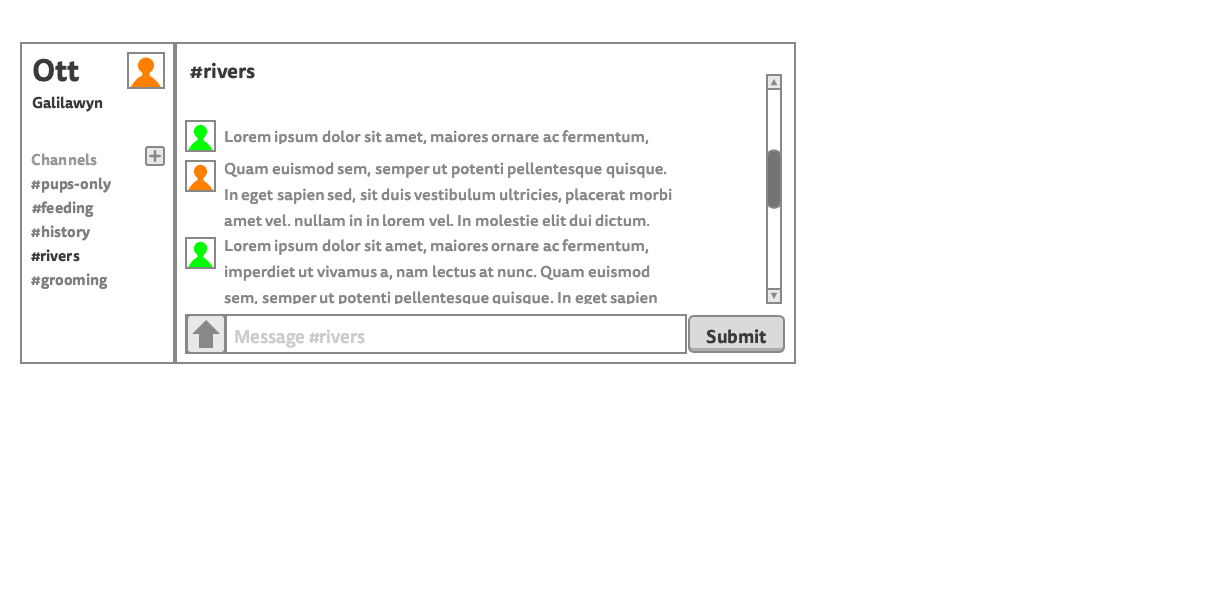
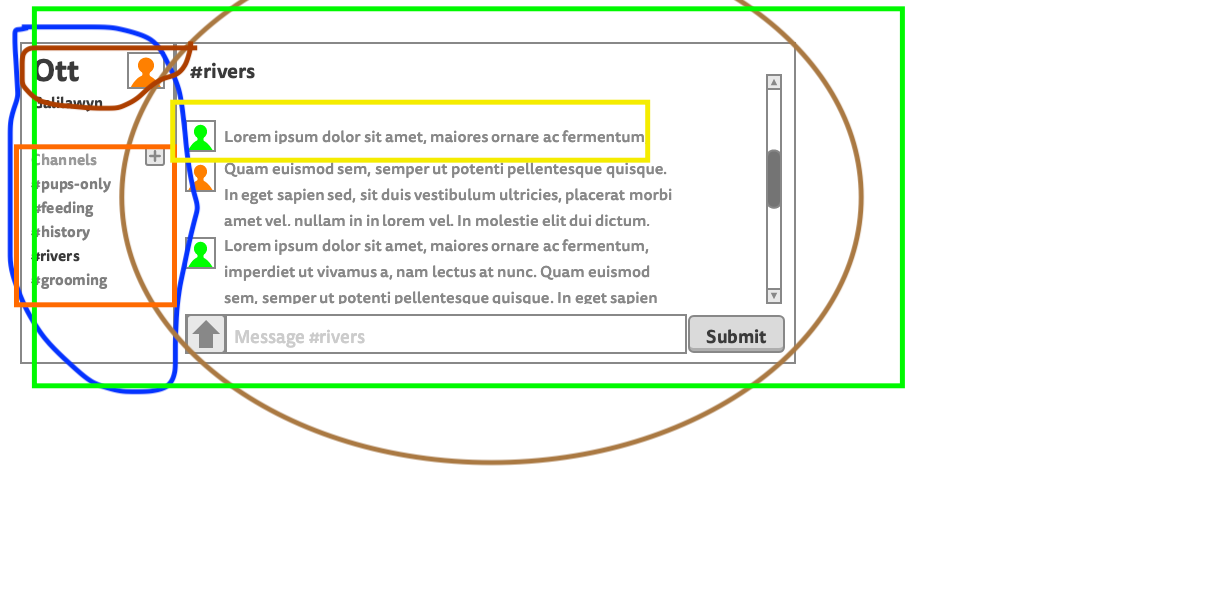
Lecture part 1

diff --git a/33-react-components-props-children/ott/src/App.js b/33-react-components-props-children/ott/src/App.js
@@ -1,24 +1,14 @@
+// ALWAYS WHEN CREATING A REACT COMPONENT
 import React from 'react';
-import logo from './logo.svg';
-import './App.css';
+import data from './data.js';
+import NavigationContainer from './NavigationContainer';
+import MessagesContainer from './MessagesContainer';
 
 function App() {
   return (
-    <div className="App">
-      <header className="App-header">
-        <img src={logo} className="App-logo" alt="logo" />
-        <p>
-          Edit <code>src/App.js</code> and save to reload.
-        </p>
-        <a
-          className="App-link"
-          href="https://reactjs.org"
-          target="_blank"
-          rel="noopener noreferrer"
-        >
-          Learn React
-        </a>
-      </header>
+    <div>
+      <NavigationContainer user={data.current_user} />
+      <MessagesContainer />
     </div>
   );
 }

diff --git a/33-react-components-props-children/ott/src/index.js b/33-react-components-props-children/ott/src/index.js
@@ -1,12 +1,6 @@
 import React from 'react';
 import ReactDOM from 'react-dom';
-import './index.css';
+
 import App from './App';
-import * as serviceWorker from './serviceWorker';
 
-ReactDOM.render(<App />, document.getElementById('root'));
-
-// If you want your app to work offline and load faster, you can change
-// unregister() to register() below. Note this comes with some pitfalls.
-// Learn more about service workers: https://bit.ly/CRA-PWA
-serviceWorker.unregister();
+ReactDOM.render(<App />, document.getElementById('beef'));

diff --git a/33-react-components-props-children/ott/src/data.js b/33-react-components-props-children/ott/src/data.js
@@ -1,8 +1,7 @@
-module.exports = {
+export default {
   current_user: {
     username: "Galilawyn",
-    profile_picture: "",
-    active_channel: "#rivers"
+    profile_picture: ""
   },
   channels: [
     {
@@ -19,6 +18,7 @@ module.exports = {
     },
     {
       name: "#rivers",
+      selected: true,
       messages: [
         {
           user: {
@@ -57,4 +57,4 @@ module.exports = {
       messages: []
     }
   ]
-};
+}

diff --git a/33-react-components-props-children/ott/src/NavigationContainer.js b/33-react-components-props-children/ott/src/NavigationContainer.js
@@ -1,0 +1,18 @@
+import React, { Component } from 'react';
+import Profile from './Profile';
+import ChannelsList from './ChannelsList';
+
+
+class NavigationContainer extends Component {
+  render() {
+    console.log('NavigationContainer user', this.props.user);
+    return (
+      <div>
+        <Profile user={this.props.user} />
+        <ChannelsList />
+      </div>
+    )
+  }
+}
+
+export default NavigationContainer;

diff --git a/33-react-components-props-children/ott/src/Profile.js b/33-react-components-props-children/ott/src/Profile.js
@@ -1,0 +1,15 @@
+import React from 'react';
+
+class Profile extends React.Component {
+  render() {
+    console.log('Profile user', this.props.user);
+    return (
+      <div>
+        <img src={this.props.user.profile_picture} />
+        <p>{this.props.user.username}</p>
+      </div>
+    )
+  }
+}
+
+export default Profile;

diff --git a/33-react-components-props-children/ott/public/index.html b/33-react-components-props-children/ott/public/index.html
@@ -23,7 +23,7 @@
   </head>
   <body>
     <noscript>You need to enable JavaScript to run this app.</noscript>
-    <div id="root"></div>
+    <div id="beef"></div>
     <!--
       This HTML file is a template.
       If you open it directly in the browser, you will see an empty page.

diff --git a/33-react-components-props-children/ott/src/MessagesContainer.js b/33-react-components-props-children/ott/src/MessagesContainer.js
@@ -1,0 +1,14 @@
+import React from 'react';
+import Message from './Message'
+
+class MessagesContainer extends React.Component {
+  render() {
+    return (
+      <div>
+        <Message />
+      </div>
+    )
+  }
+}
+
+export default MessagesContainer;

diff --git a/33-react-components-props-children/ott/src/ChannelsList.js b/33-react-components-props-children/ott/src/ChannelsList.js
@@ -1,0 +1,11 @@
+import React from 'react';
+
+class ChannelsList extends React.Component {
+  render() {
+    return (
+      <div>Hello, ChannelsList!</div>
+    )
+  }
+}
+
+export default ChannelsList;

diff --git a/33-react-components-props-children/ott/src/Message.js b/33-react-components-props-children/ott/src/Message.js
@@ -1,0 +1,11 @@
+import React from 'react';
+
+class Message extends React.Component {
+  render() {
+    return (
+      <div>Hello, Message!</div>
+    )
+  }
+}
+
+export default Message;

diff --git a/33-react-components-props-children/README.md b/33-react-components-props-children/README.md
@@ -5,23 +5,42 @@
 ## Learning Goals
 
 1. Describe the purpose of the virtual DOM
-1. Compare the virtual DOM to the actual DOM
+1. * Compare the virtual DOM to the actual DOM
 1. Contrast imperative and declarative programming
-1. Identify components from a wireframe and draw out the flow of information
+1. * Identify components from a wireframe and draw out the flow of information
 1. Describe the component hierarchy using the terms root, parent, and child
 1. Create a React app that renders "Hello, World!" to the screen
 1. Define the term prop in the context of React
 1. List the types of data that can be passed as props
-1. Explain the benefits or drawbacks of using the tool `create-react-app`
+1. * Explain the benefits or drawbacks of using the tool `create-react-app`
 1. Create a React app that renders a container, one list, and five list items
 
 ## Objectives
 
 - Take the wireframe from our design team and
-  - Identify components
-  - Map out the initial component hierarchy
+  - ~~Identify components~~
+  - ~~Map out the initial component hierarchy~~
 - Create a new React app using `create-react-app`
-  - Remove all boilerplate code
-  - In [`app`](./ott/src/App.js) component, render "Hello, World!"
+  - ~~Remove all boilerplate code~~
+  - ~~In [`app`](./ott/src/App.js) component, render "Hello, World!"~~
   - Import dummy data from [`data.js`](./ott/src/data.js)
   - Create a static app from the wireframe
+
+## Components
+
+* app `data`
+  * navigation
+    * profile `data.user`
+    * channels `data.channels`
+  * messages `data.channels => loop through, get the currently selected => render those messages`
+    * message
+
+## Questions/Notes
+* Where and how to put the whole page together; the content of the website
+* When and where should I start implementing vanilla JS?
+* What is the backend that we're using? How do we interact w/ that in React?
+* How can we build a barebones React app without cra?
+* Different ways to import functions?
+* ~~Using props in components~~
+* ~~Flow of information in the React app~~
+* ~~The new ways that you can write functions and classes~~
